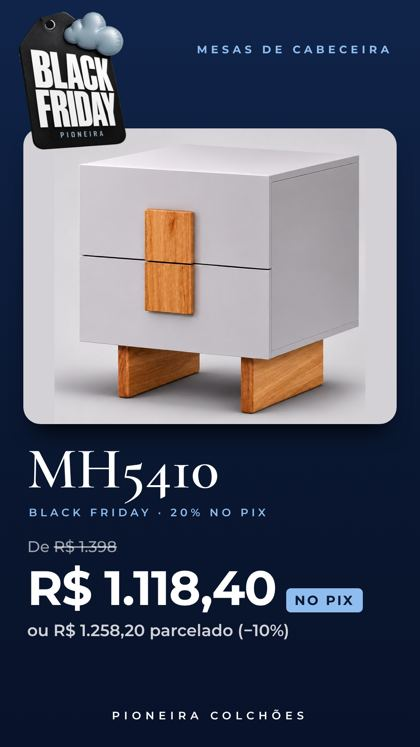
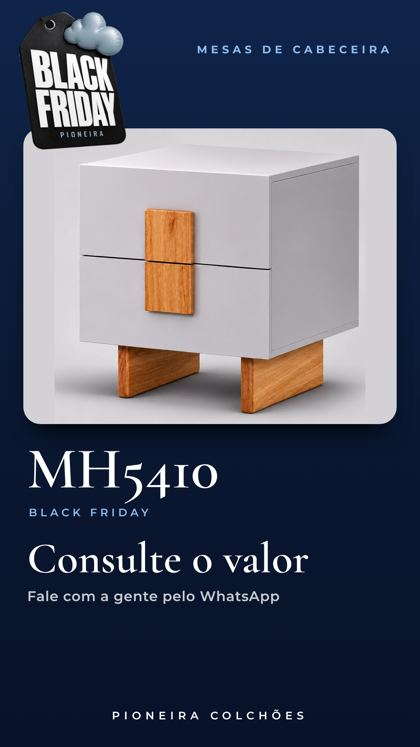
Mesas de cabeceira sem preços: artes com 'Consulte o valor'; tabela de preços removida
Claude-Session: https://claude.ai/code/session_01Wenqvw9cMbUz8i68jYt1Pp

Changed region(s): [[0.0619, 0.6774, 0.8667, 0.8621], [0.4024, 0.6774, 0.4643, 0.7082]]

diff --git a/products.js b/products.js
@@ -36,7 +36,7 @@ window.CATEGORIES = [
   {group:"Black Friday",black:true,key:"colchao-bau",name:"Colchão + Box Baú",cover:"molas-bau-solteiro-solteirao.jpg"},
   {group:"Black Friday",black:true,key:"colchao",name:"Colchões",cover:"sealy-queen.jpg"},
   {group:"Black Friday",black:true,key:"tricama",name:"Tricama 3 em 1",cover:"tricama-promo.jpg",pos:"50% 30%"},
-  {group:"Black Friday",black:true,key:"mesas",name:"Mesas de cabeceira",cover:"mesas-tabela.jpg",pos:"50% 40%"},
+  {group:"Black Friday",black:true,key:"mesas",name:"Mesas de cabeceira",cover:"video-mesas-cabeceira.jpg",pos:"50% 40%"},
   {group:"Black Friday",black:true,key:"camas",name:"Bicama",cover:"bicama-casal.jpg",pos:"50% 30%"},
 
   {group:"Camas",key:"bicamas-loja",name:"Bicamas",cover:"bicamas-03.jpg",pos:"50% 50%"},
@@ -113,14 +113,13 @@ window.PRODUCTS = [
   {cat:"campanha",top:true,video:"video-black-esperar.mp4",img:"video-black-esperar.jpg",name:"Vídeo: Por que esperar pode sair caro?",wa:"as ofertas da Black Friday"},
   {cat:"tricama",top:true,img:"tricama-promo.jpg",leg:"Tricama 3 em 1 · aço e 2 anos de garantia",preco:"10x R$ 333,87 · R$ 3.050 à vista",name:"Tricama 3 em 1 (estrutura em aço, 2 anos de garantia)"},
   {cat:"mesas",top:true,video:"video-mesas-cabeceira.mp4",img:"video-mesas-cabeceira.jpg",leg:"Mesas de cabeceira · toque num modelo",chips:[{t:"DIME",img:"mesa-dime.jpg"},{t:"MILETO",img:"mesa-mileto.jpg"},{t:"MH5404",img:"mesa-mh5404.jpg"},{t:"MH5405",img:"mesa-mh5405.jpg"},{t:"MH5410",img:"mesa-mh5410.jpg"},{t:"LINO",img:"mesa-lino.jpg"},{t:"MILOS",img:"mesa-milos.jpg"}],name:"Vídeo: Mesas de cabeceira",wa:"Mesas de cabeceira"},
-  {cat:"mesas",top:true,img:"mesas-tabela.jpg",leg:"Mesas de cabeceira · toque num modelo",chips:[{t:"DIME",img:"mesa-dime.jpg"},{t:"MILETO",img:"mesa-mileto.jpg"},{t:"MH5404",img:"mesa-mh5404.jpg"},{t:"MH5405",img:"mesa-mh5405.jpg"},{t:"MH5410",img:"mesa-mh5410.jpg"},{t:"LINO",img:"mesa-lino.jpg"},{t:"MILOS",img:"mesa-milos.jpg"}],preco:"20% no Pix · 10% parcelado",name:"Mesas de cabeceira (tabela com todos os modelos)"},
-  {cat:"mesas",img:"mesa-dime.jpg",leg:"Mesa DIME",preco:"R$ 1.432 no Pix",name:"Mesa de cabeceira DIME",back:"Todos os modelos"},
-  {cat:"mesas",img:"mesa-mileto.jpg",leg:"Mesa MILETO",preco:"R$ 1.512 no Pix",name:"Mesa de cabeceira MILETO",back:"Todos os modelos"},
-  {cat:"mesas",img:"mesa-mh5404.jpg",leg:"Mesa MH5404",preco:"R$ 1.118,40 no Pix",name:"Mesa de cabeceira MH5404",back:"Todos os modelos"},
-  {cat:"mesas",img:"mesa-mh5405.jpg",leg:"Mesa MH5405",preco:"R$ 1.571,20 no Pix",name:"Mesa de cabeceira MH5405",back:"Todos os modelos"},
-  {cat:"mesas",img:"mesa-mh5410.jpg",leg:"Mesa MH5410",preco:"R$ 1.118,40 no Pix",name:"Mesa de cabeceira MH5410",back:"Todos os modelos"},
-  {cat:"mesas",img:"mesa-lino.jpg",leg:"Mesa LINO",preco:"R$ 2.720 no Pix",name:"Mesa de cabeceira LINO",back:"Todos os modelos"},
-  {cat:"mesas",img:"mesa-milos.jpg",leg:"Mesa MILOS",preco:"R$ 2.632 no Pix",name:"Mesa de cabeceira MILOS",back:"Todos os modelos"},
+  {cat:"mesas",img:"mesa-dime.jpg",leg:"Mesa DIME",preco:"Consulte o valor",name:"Mesa de cabeceira DIME",back:"Todos os modelos"},
+  {cat:"mesas",img:"mesa-mileto.jpg",leg:"Mesa MILETO",preco:"Consulte o valor",name:"Mesa de cabeceira MILETO",back:"Todos os modelos"},
+  {cat:"mesas",img:"mesa-mh5404.jpg",leg:"Mesa MH5404",preco:"Consulte o valor",name:"Mesa de cabeceira MH5404",back:"Todos os modelos"},
+  {cat:"mesas",img:"mesa-mh5405.jpg",leg:"Mesa MH5405",preco:"Consulte o valor",name:"Mesa de cabeceira MH5405",back:"Todos os modelos"},
+  {cat:"mesas",img:"mesa-mh5410.jpg",leg:"Mesa MH5410",preco:"Consulte o valor",name:"Mesa de cabeceira MH5410",back:"Todos os modelos"},
+  {cat:"mesas",img:"mesa-lino.jpg",leg:"Mesa LINO",preco:"Consulte o valor",name:"Mesa de cabeceira LINO",back:"Todos os modelos"},
+  {cat:"mesas",img:"mesa-milos.jpg",leg:"Mesa MILOS",preco:"Consulte o valor",name:"Mesa de cabeceira MILOS",back:"Todos os modelos"},
   {cat:"camas",video:"video-bicama-molas.mp4",img:"video-bicama-molas.jpg",tags:["bicamas-loja"],leg:"Bicama de molas · veja de perto",preco:"R$ 1.299 (de R$ 1.699)",name:"Vídeo: Bicama de molas",wa:"Bicama de molas"},
   {cat:"camas",top:true,img:"bicama-casal.jpg",leg:"Bicama de Molas Casal",preco:"R$ 2.443 no Pix",name:"Colchão Molas Firme + Bicama de Molas Casal"},
   {cat:"box-bau",top:true,video:"video-box-bau-qualidade.mp4",img:"video-box-bau-qualidade.jpg",name:"Vídeo: Antes de comprar um box baú, veja isso",wa:"Box Baú"},

diff --git a/index.html b/index.html
@@ -13,7 +13,7 @@
 <meta name="twitter:card" content="summary_large_image"><meta name="twitter:title" content="Black Friday Pioneira"><meta name="twitter:image" content="https://apioneiracolchoes.pages.dev/img/card-oferta.jpg">
 <link rel="icon" href="icon.svg" type="image/svg+xml"><link rel="apple-touch-icon" href="icon-180.png"><link rel="manifest" href="manifest.webmanifest">
 <link rel="stylesheet" href="https://fonts.googleapis.com/css2?family=Cormorant+Garamond:ital,wght@0,500;0,600;1,500&family=Montserrat:wght@400;500;600&family=Comfortaa:wght@600;700&display=swap">
-<link rel="stylesheet" href="style.css?v=20261110a"></head><body>
+<link rel="stylesheet" href="style.css?v=20261110b"></head><body>
 <div id="splash"><span class="logo big"><svg class="cloud" viewBox="0 0 64 40" aria-hidden="true"><path fill="#6db3f0" d="M16 38a12 12 0 0 1-2-23.8A15 15 0 0 1 43 11a13 13 0 0 1 6 27z"/></svg><b>apioneira</b><small>COLCHÕES</small></span></div>
 <div id="app"></div>
-<script>window.BUILD="20261110a"</script><script src="config.js?v=20261106c"></script><script src="products.js?v=20261106c"></script><script src="app.js?v=20261106c"></script></body></html>
+<script>window.BUILD="20261110b"</script><script src="config.js?v=20261106c"></script><script src="products.js?v=20261106c"></script><script src="app.js?v=20261106c"></script></body></html>
